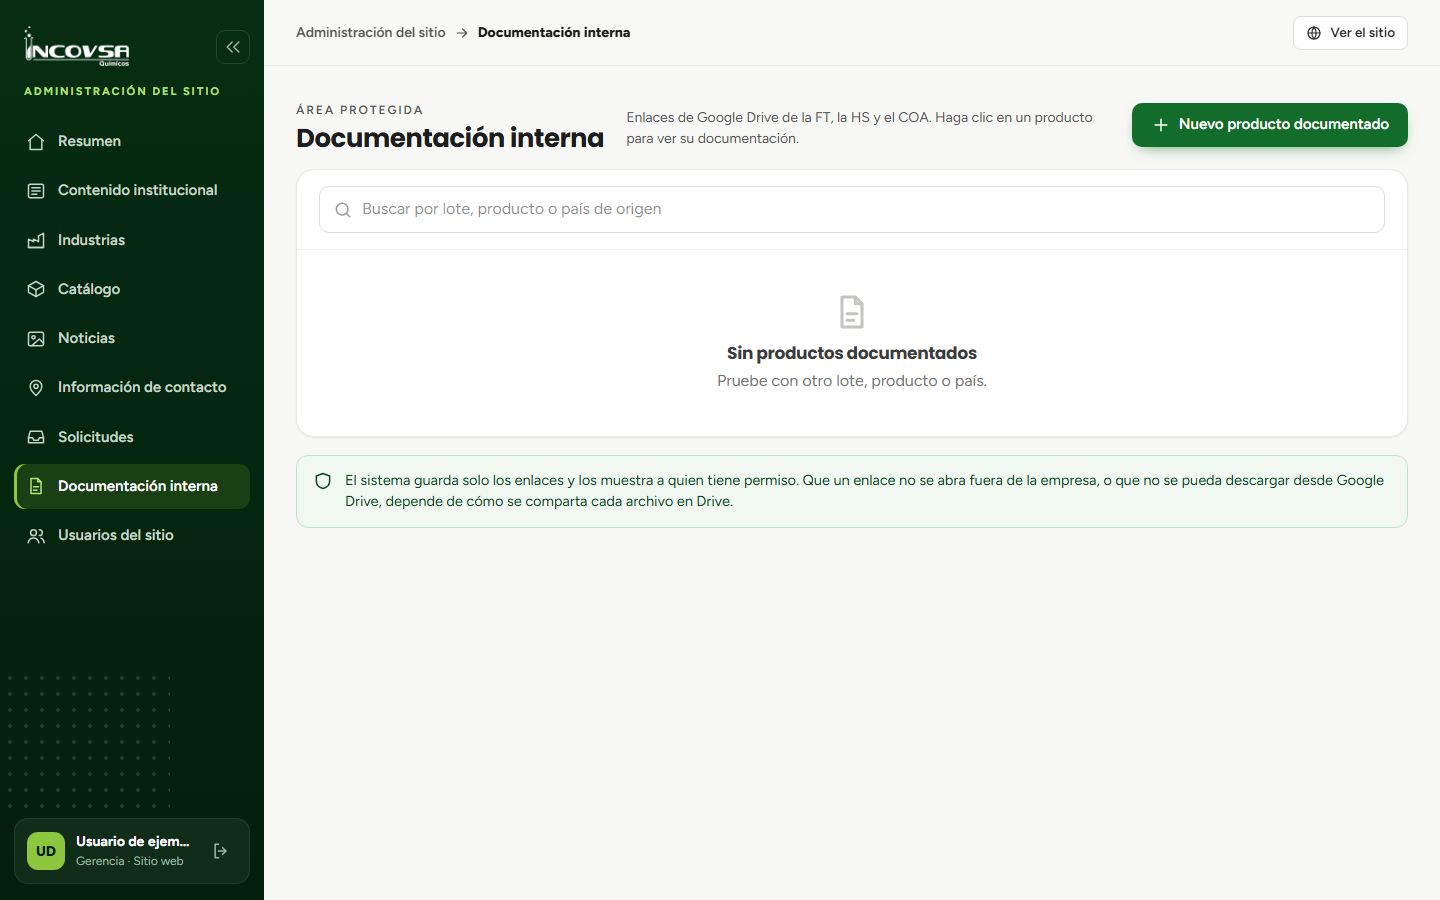
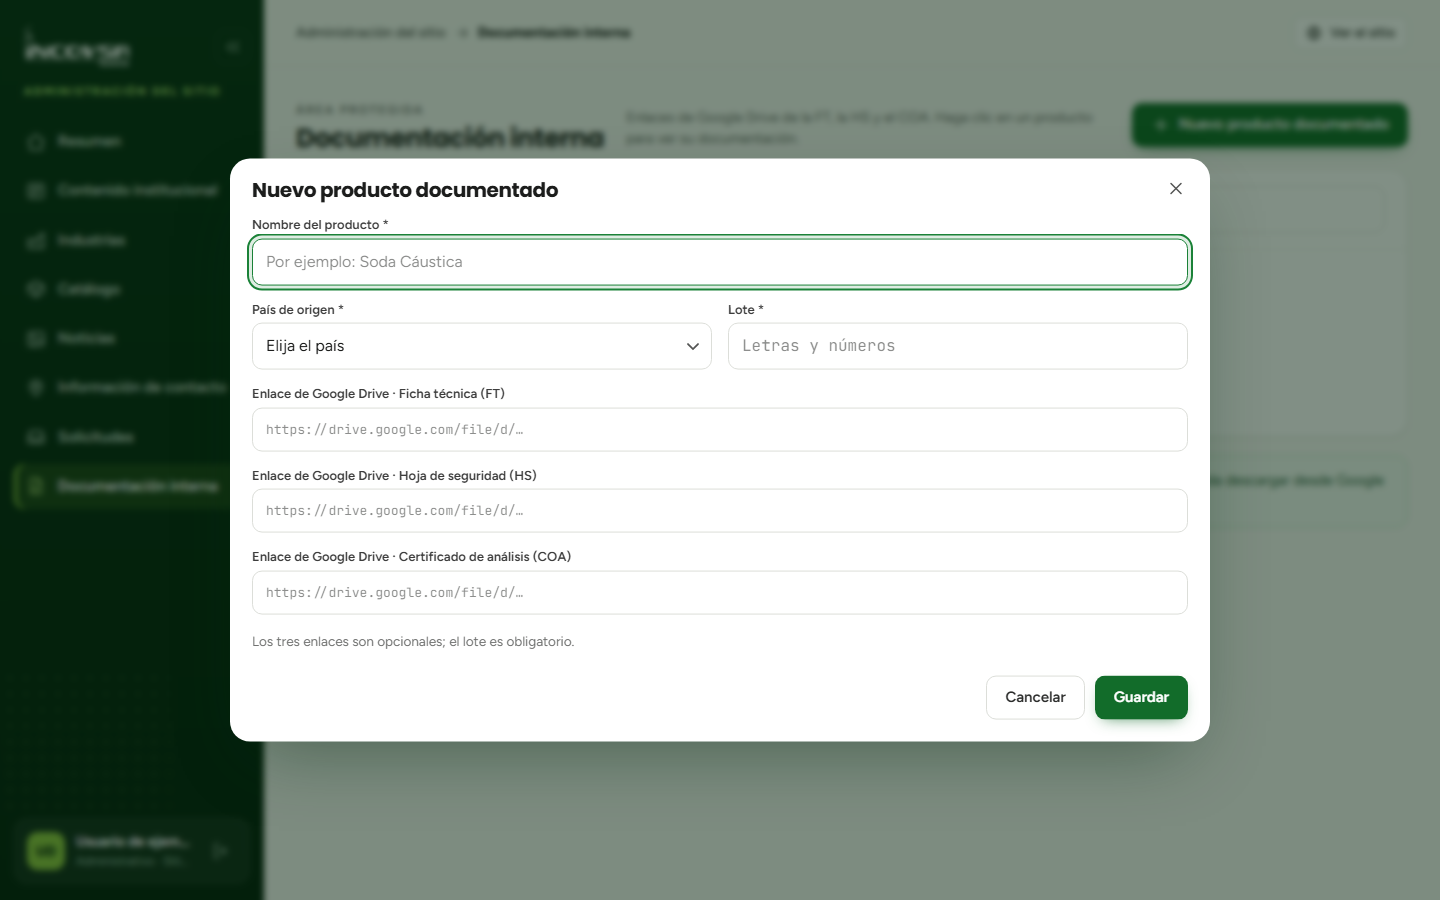
docs(dm-13): atiende revisión del manual

diff --git a/plan/bitacora/daniela.md b/plan/bitacora/daniela.md
@@ -140,7 +140,8 @@ Los avisos para otra persona van en su propia línea y empiezan en negrita con a
 
 ## 2026-11-03 · DM-13 · Documento 3, manual de usuario de la administración del sitio
 
-- Hecho: redactados los 17 apartados del manual con pasos, resultados, advertencias y 19 capturas Playwright de la aplicación con datos de demostración. Generado el DOCX de 29 páginas y subido a `Proyecto INCOVSA/Documentación Tecnica` en Drive. Los nombres y carnés de portada permanecen en el archivo local ignorado `entregable-3/equipo.local.json`.
-- Verificación: `node scripts/tareas.mjs --validar` pasó (82 tareas); Prettier pasó para el documento; el generador informó 19 figuras y 0 tablas. El DOCX se renderizó con LibreOffice y se inspeccionó visualmente. `npm run verificar` pasó (57 archivos, 509 pruebas) antes de la corrección de maquetación; los hooks del segundo commit pasaron formato, lint, tipos y gitleaks (0 commits/secretos detectados). `npm run build -- --webpack` quedó impedido por DNS/red al descargar Google Fonts; la tarea solo agrega documentación.
-- Decisiones: se desactivaron índices automáticos en `documento.json` porque el generador produce campos que LibreOffice deja vacíos y páginas en blanco; se verificó la salida final de 29 páginas. El DOCX y el PDF se conservan fuera de Git, como indica la tarea. JG-21 comprobará la comprensión del manual en la capacitación y cualquier ajuste pasará a versión 1.1.
+- Hecho: redactados los 17 apartados del manual con pasos, resultados, advertencias y 18 archivos de captura reales de la aplicación con datos de demostración (19 apariciones; el panel se reutiliza en dos apartados). Generado el DOCX y subido a `Proyecto INCOVSA/Documentación Tecnica` en Drive. Los nombres y carnés de portada permanecen en el archivo local ignorado `entregable-3/equipo.local.json`.
+- Verificación: `node scripts/tareas.mjs --validar` pasó (82 tareas); el generador informó 19 figuras y 0 tablas. Se actualizaron los índices de contenido y figuras en Word; el índice de tablas indica que no hay tablas de instrucciones. Capturas Playwright ya existentes se recortaron para mostrar de forma diferenciada el contenido institucional, la galería, los permisos, el formulario de nuevo producto y el control para cerrar sesión. `npm run verificar` pasó (57 archivos, 509 pruebas) antes de la corrección de maquetación; los hooks del segundo commit pasaron formato, lint, tipos y gitleaks (0 commits/secretos detectados). `npm run build -- --webpack` quedó impedido por DNS/red al descargar Google Fonts; la tarea solo agrega documentación.
+- Decisiones: índices automáticos habilitados y recalculados en Word antes de guardar el DOCX. El DOCX y el PDF se conservan fuera de Git, como indica la tarea. JG-21 comprobará la comprensión del manual en la capacitación y cualquier ajuste pasará a versión 1.1.
+- Revisión del PR #178: corregidas instrucciones de galería, desactivación de cuentas, pestañas de solicitudes y enlace de inserción de Google Maps; las cinco figuras repetidas se sustituyeron por recortes distintos de capturas reales existentes. Se aclaró el conteo de capturas y los índices quedaron actualizados en el DOCX final.
 - Pendiente o aviso para otros: ninguno.

diff --git a/plan/tareas/DM-13-documento-3.md b/plan/tareas/DM-13-documento-3.md
@@ -47,10 +47,10 @@ python entregable-2/herramientas/armar_documento.py entregable-3/documento-3
 
 ## Resultado
 
-- Se creó `entregable-3/documento-3/` con los 17 apartados, sus procedimientos, advertencias y 19 capturas reales de la aplicación con la semilla de demostración. Incluye las instrucciones de acceso restringido de Google Drive basadas en P-92.
-- El archivo `Documento 3 - Manual de usuario de la administracion del sitio v1.0.docx` se generó en `entregable-3/` y se subió a `Proyecto INCOVSA/Documentación Tecnica` en el Drive compartido del equipo. El documento tiene 29 páginas y fue renderizado e inspeccionado visualmente.
+- Se creó `entregable-3/documento-3/` con los 17 apartados, sus procedimientos, advertencias y 18 archivos de captura real de la aplicación con la semilla de demostración (19 apariciones; la del panel se reutiliza en dos procedimientos). Incluye las instrucciones de acceso restringido de Google Drive basadas en P-92.
+- El archivo `Documento 3 - Manual de usuario de la administracion del sitio v1.0.docx` se generó en `entregable-3/` y se subió a `Proyecto INCOVSA/Documentación Tecnica` en el Drive compartido del equipo. Incluye portada, control de versiones e índices de contenido y figuras actualizados en Word; el índice de tablas indica que no hay tablas de instrucciones.
 - La portada usa `entregable-3/equipo.local.json`, archivo local ignorado por Git. No se versionan nombres/carnés en ese JSON ni el DOCX/PDF.
-- Para regenerar el DOCX, ejecutar el comando de Verificación desde la raíz del repositorio. Los índices automáticos se desactivaron porque el generador deja sus campos vacíos fuera de Word; se comprobó que la versión final no tenga páginas de índice en blanco.
+- Para regenerar el DOCX, ejecutar el comando de Verificación desde la raíz del repositorio. Abrirlo en Word, actualizar los campos de índice (clic derecho → Actualizar campos) y guardar para completar las entradas antes de distribuirlo. La automatización COM de Word quedó bloqueada por el control de acceso del equipo.
 - La capacitación JG-21 queda como comprobación de uso con personal, tal como está programada; los ajustes que surjan se incorporarán a la versión 1.1.
 
 ## Notas

diff --git a/entregable-3/documento-3/14-administracion-de-usuarios.md b/entregable-3/documento-3/14-administracion-de-usuarios.md
@@ -1,6 +1,6 @@
 # Administración de usuarios
 
-## Crear y actualizar una cuenta
+## Crear, actualizar o desactivar una cuenta
 
 ### Objetivo
 Solicitar la creación, modificación o desactivación de una cuenta del sitio.
@@ -17,7 +17,8 @@ Solicitar la creación, modificación o desactivación de una cuenta del sitio.
 5. Seleccione **Guardar** y confirme que la cuenta aparezca como activa.
 6. Entregue el usuario y contraseña inicial directamente a la persona por el canal aprobado por INCOVSA.
 7. Para restablecer una contraseña, use el botón **Contraseña** de la fila y escriba una nueva.
-8. Para retirar una cuenta, seleccione el control de eliminación y confirme.
+8. Para desactivar una cuenta sin eliminar su registro, edítela, desmarque **Cuenta activa** y guarde. Confirme que ya no aparezca activa.
+9. Si la cuenta debe eliminarse, seleccione el control de eliminación y confirme.
 
 ![Aplicación: administración de usuarios del sitio](figuras/14-usuarios-sitio.png){#fig:usuarios-sitio}
 

diff --git a/entregable-3/documento-3/06-imagenes-del-sitio.md b/entregable-3/documento-3/06-imagenes-del-sitio.md
@@ -11,9 +11,9 @@ Administrar imágenes de las galerías del sitio usando archivos compatibles.
 
 ### Pasos
 1. Abra la sección que contiene la galería.
-2. Seleccione **Elegir imágenes** o arrastre las imágenes desde su computadora al área de la galería.
+2. Seleccione el área que indica **Arrastre aquí hasta 5 imágenes o haga clic para elegirlas**, o arrastre las imágenes desde su computadora.
 3. Compruebe la vista previa y el orden de las imágenes.
-4. Quite una imagen con la acción **Quitar** si ya no debe aparecer.
+4. Use las flechas de la miniatura para cambiar el orden; use el botón con icono de papelera, **Quitar la imagen N**, para retirarla.
 5. En las galerías de Portada, Misión, Visión e Historia, seleccione **Guardar y publicar**. En Industrias, Catálogo y Noticias, use el botón de guardado de esa sección.
 6. Compruebe la página pública después de guardar.
 

diff --git a/entregable-3/documento-3/13-contenido-restringido-y-permisos.md b/entregable-3/documento-3/13-contenido-restringido-y-permisos.md
@@ -17,7 +17,7 @@ Reconocer por qué algunas secciones o acciones están disponibles solo para cie
 5. Para otras áreas, Gerencia o Soporte asignan el permiso específico de Contenido institucional, Industrias, Catálogo, Noticias, Información de contacto o Solicitudes.
 6. Si necesita otro acceso, indique a Gerencia o Soporte su nombre de usuario y la tarea que debe realizar.
 
-![Aplicación: secciones del panel visibles con acceso total](figuras/13-permisos-panel.png){#fig:permisos-panel}
+![Aplicación: permisos disponibles en la administración de usuarios](figuras/13-permisos-panel.png){#fig:permisos-panel}
 
 ### Resultado esperado
 La cuenta muestra las secciones que tiene autorizadas y las operaciones permitidas en cada sección.

diff --git a/entregable-3/documento-3/05-historia-mision-vision-valores.md b/entregable-3/documento-3/05-historia-mision-vision-valores.md
@@ -17,7 +17,7 @@ Mantener actualizadas las secciones institucionales de Quiénes somos.
 5. Para los valores, cargue una imagen en cada una de las cinco posiciones. No se agrega texto: la página pública muestra cinco imágenes.
 6. Abra **Quiénes somos** en el sitio para revisar los cambios.
 
-![Aplicación: Historia, Misión, Visión y Valores](figuras/05-historia-mision-vision-valores.png){#fig:textos-institucionales}
+![Aplicación: edición de Historia, Misión, Visión y Valores](figuras/05-historia-mision-vision-valores.png){#fig:textos-institucionales}
 
 ### Resultado esperado
 El sitio presenta los textos publicados y, donde se hayan cargado, sus imágenes.

diff --git a/entregable-3/documento-3/09-informacion-de-contacto.md b/entregable-3/documento-3/09-informacion-de-contacto.md
@@ -17,6 +17,8 @@ Mantener vigentes los datos de contacto que el público consulta en el sitio.
 5. Seleccione **Guardar**.
 6. Abra la página **Contacto** y confirme que el dato aparece correctamente.
 
+Para actualizar el mapa, abra la ubicación en Google Maps, seleccione **Compartir** y luego **Insertar un mapa**. Copie la dirección que aparece en `src` dentro del código de inserción y úsela en el campo del mapa; una dirección normal de búsqueda o de compartir no es equivalente.
+
 ![Aplicación: Información de contacto](figuras/09-informacion-contacto.png){#fig:contacto-panel}
 
 ### Resultado esperado

diff --git a/entregable-3/documento-3/04-informacion-institucional.md b/entregable-3/documento-3/04-informacion-institucional.md
@@ -16,7 +16,7 @@ Actualizar los textos e imágenes institucionales publicados en Inicio y Quiéne
 4. Pulse **Guardar y publicar** cuando la sección lo indique.
 5. Use **Ver en el sitio** para abrir la página relacionada y comprobar el resultado.
 
-![Aplicación: sección Contenido institucional](figuras/04-contenido-institucional.png){#fig:contenido-institucional}
+![Aplicación: sección de edición de contenido institucional](figuras/04-contenido-institucional.png){#fig:contenido-institucional}
 
 ### Resultado esperado
 El contenido guardado se muestra en las páginas públicas que utilizan ese bloque.

diff --git a/entregable-3/documento-3/16-cerrar-sesion.md b/entregable-3/documento-3/16-cerrar-sesion.md
@@ -14,7 +14,7 @@ Finalizar la sesión de administración del sitio al terminar el trabajo.
 3. Compruebe que el sitio vuelve a la página de inicio.
 4. Si utilizó un equipo compartido, cierre también la ventana del navegador cuando sea apropiado.
 
-![Aplicación: control Cerrar sesión al pie del menú](figuras/16-cerrar-sesion.png){#fig:cerrar-sesion}
+![Aplicación: control de salida al pie del menú](figuras/16-cerrar-sesion.png){#fig:cerrar-sesion}
 
 ### Resultado esperado
 La sesión de administración se cierra y aparece el sitio público.

diff --git a/entregable-3/documento-3/12-cargar-documentos-tecnicos.md b/entregable-3/documento-3/12-cargar-documentos-tecnicos.md
@@ -16,7 +16,7 @@ Asociar la ficha técnica, la hoja de seguridad y el certificado de análisis de
 4. Revise los datos y seleccione **Guardar**.
 5. Abra la fila creada para comprobar que se muestra cada documento disponible.
 
-![Aplicación: registro de producto documentado](figuras/12-producto-documentado.png){#fig:producto-documentado}
+![Aplicación: formulario Nuevo producto documentado](figuras/12-producto-documentado.png){#fig:producto-documentado}
 
 ## Compartir documentos de forma restringida en Google Drive
 

diff --git a/entregable-3/documento-3/15-consultas-y-solicitudes.md b/entregable-3/documento-3/15-consultas-y-solicitudes.md
@@ -11,7 +11,7 @@ Revisar los mensajes que llegan por el formulario público y dar seguimiento seg
 
 ### Pasos
 1. Abra **Solicitudes** en el panel.
-2. Seleccione el motivo: Solicitud, Queja o Reclamo.
+2. Seleccione la pestaña **Solicitudes**, **Quejas** o **Reclamos**.
 3. Abra un registro y lea el mensaje completo.
 4. Si tiene permiso de gestión, seleccione el responsable y guarde el comentario correspondiente.
 5. Use los botones **Asignado**, **En proceso** o **Solucionado** para registrar el estado.
